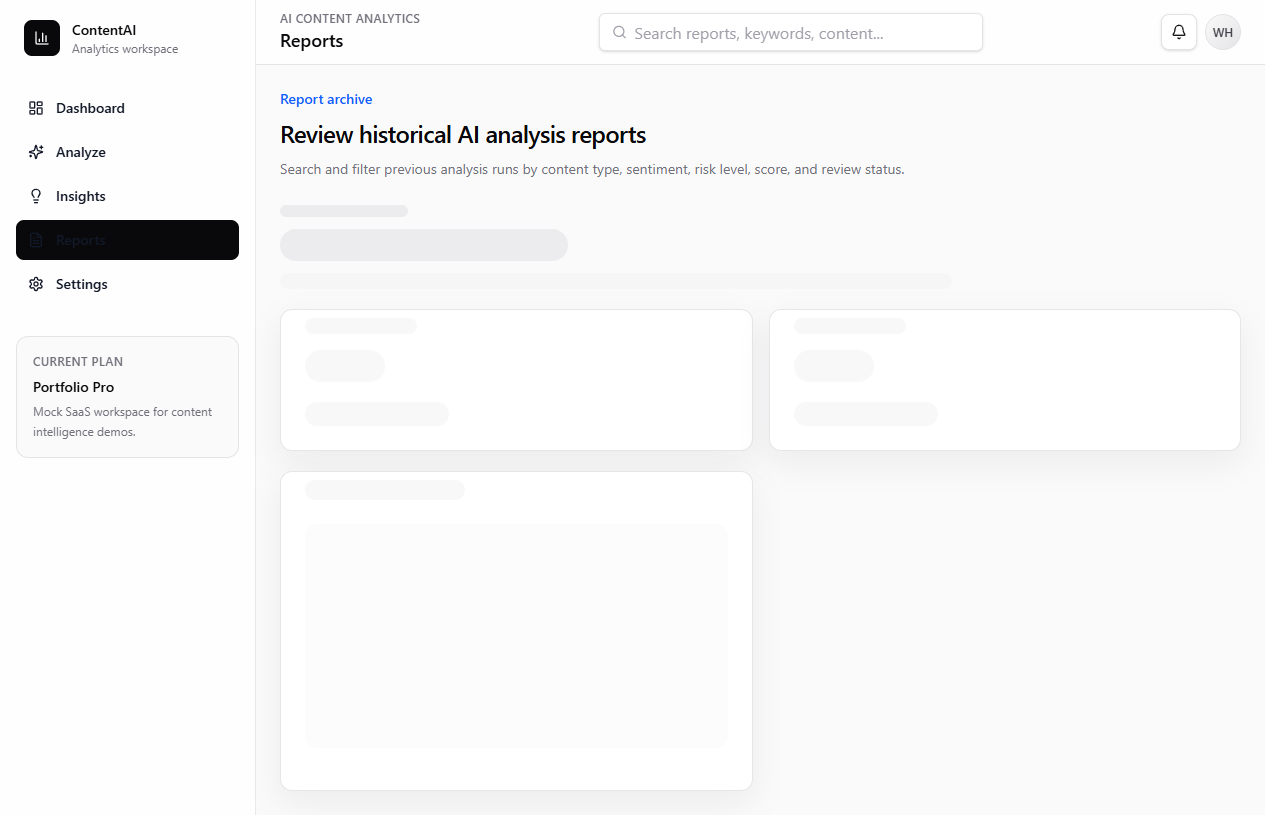
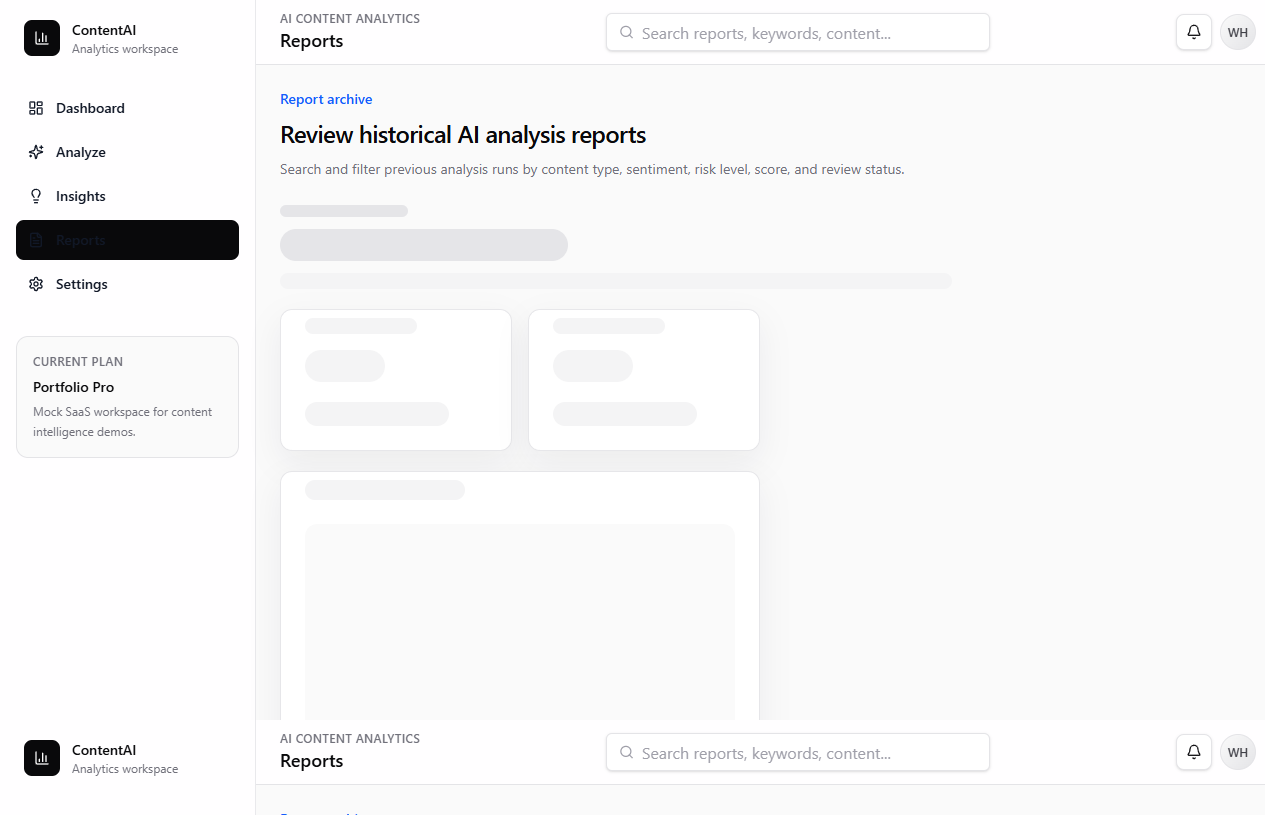
Update README screenshots

diff --git a/README.md b/README.md
@@ -12,13 +12,15 @@ GitHub: [https://github.com/wh8344/ai-content-analytics-dashboard](https://githu
 
 ## Screenshots
 
+![Homepage](screenshots/homepage.png)
+
 ![Dashboard](screenshots/dashboard.png)
 
 ![Analyze](screenshots/analyze.png)
 
-![Reports](screenshots/reports.png)
-
 ![Insights](screenshots/insights.png)
+
+![Reports](screenshots/reports.png)
 
 ## Key Features
 
